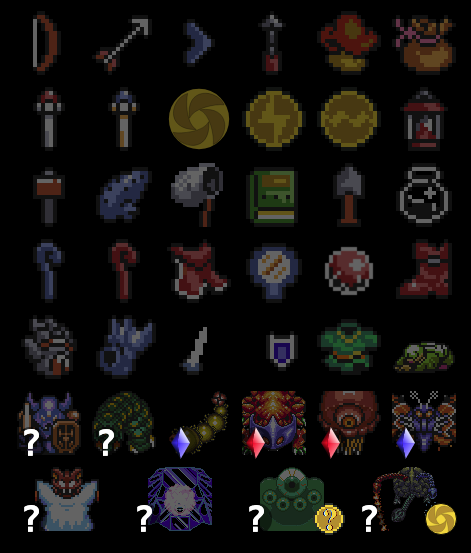
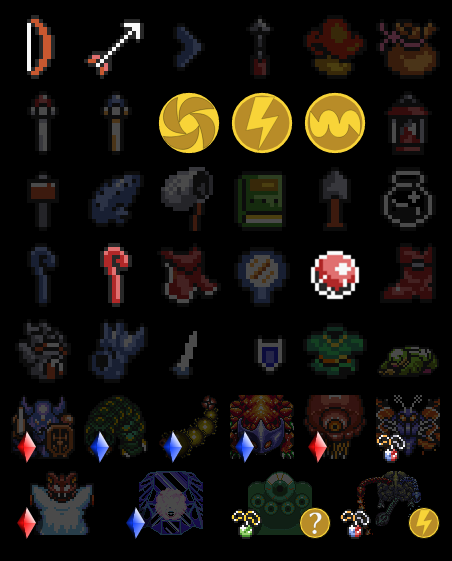
Readme and preview update.

diff --git a/README.md b/README.md
@@ -95,11 +95,16 @@ Will run under mac os, windows x64 and Linux x64!
 
 ### SVG Graphics
 
-Just look at this!
+Just look at this! I updated some graphics to an HD format (HD medallions and HD crystals).
 
-![Bombos](https://github.com/bmhm/alttpr-vue-twitch-chat-tracker/raw/master/assets/svg-graphics.png)
+More will be added later.
 
-Hint: Take a closer look at bombos and the crystals!
+![HD SVG Medalltions and Crystals for Legend of Zelda tracker.](https://github.com/bmhm/alttpr-vue-twitch-chat-tracker/raw/master/assets/svg-graphics.png)
+
+Hint: Take a closer look at the medalltions and the crystals!
+
+Licence: Apache 2.0 -- feel free to reuse for attribution and share under the same license.
+Please read the license carefully before using.
 
 ---
 
